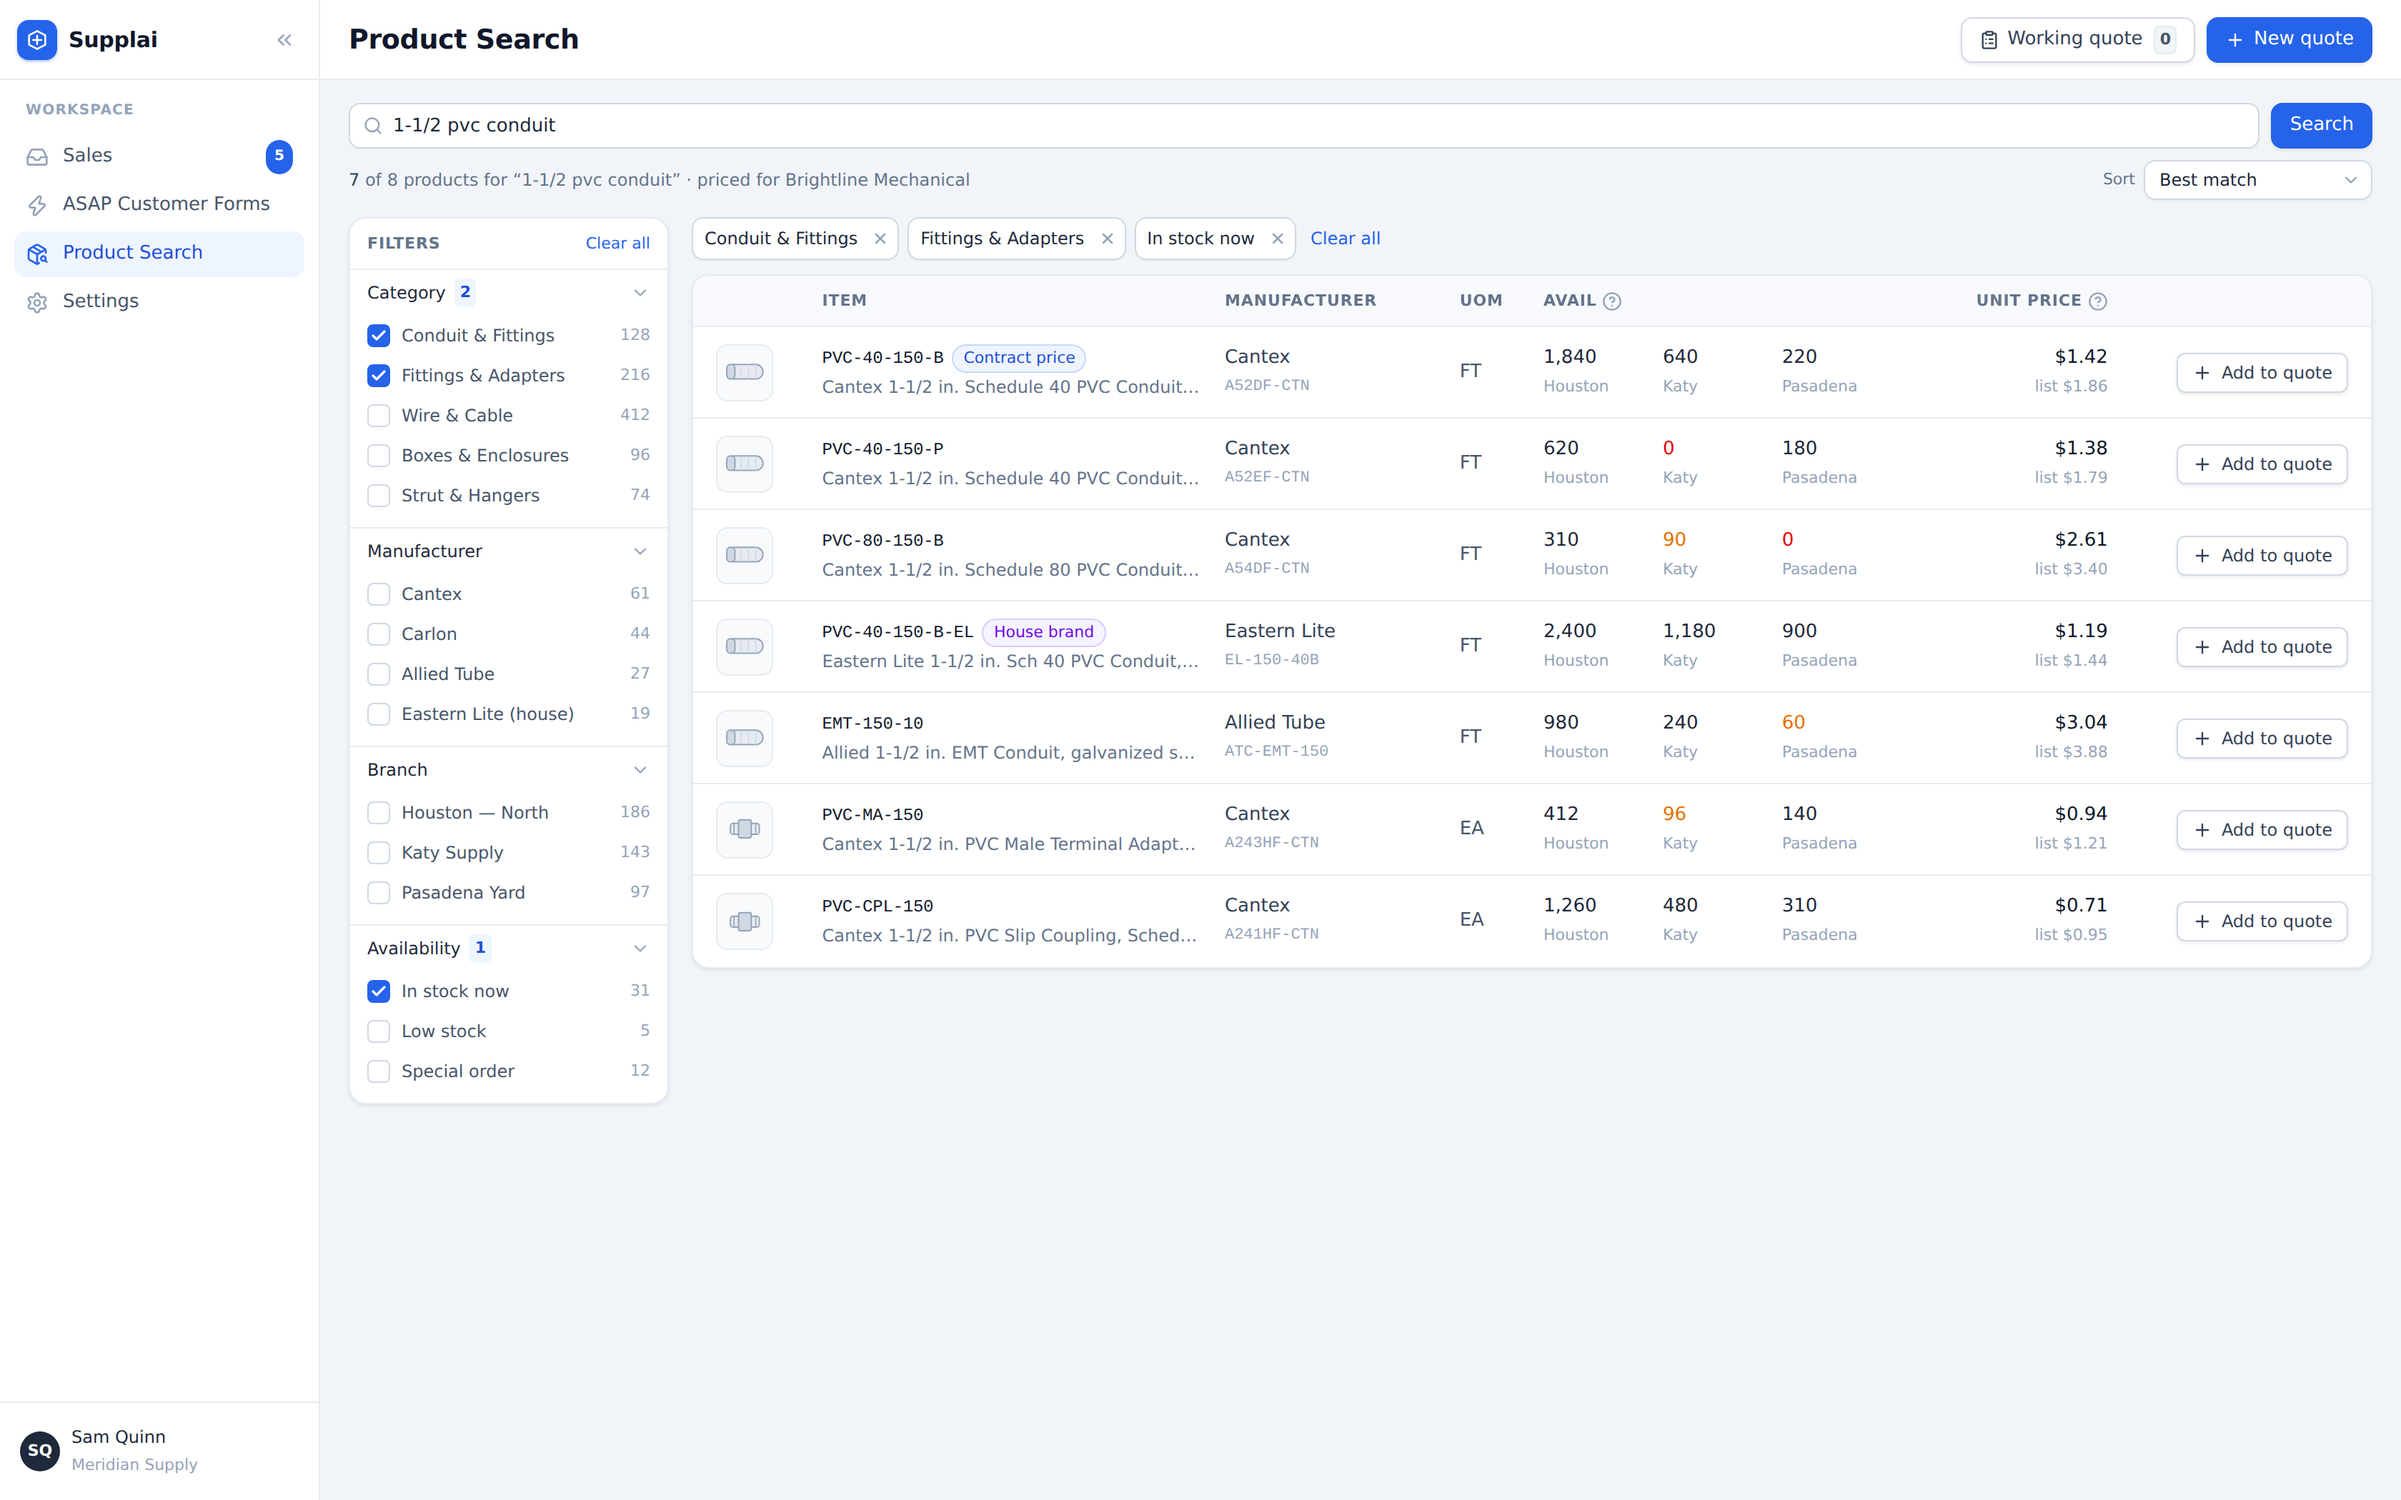
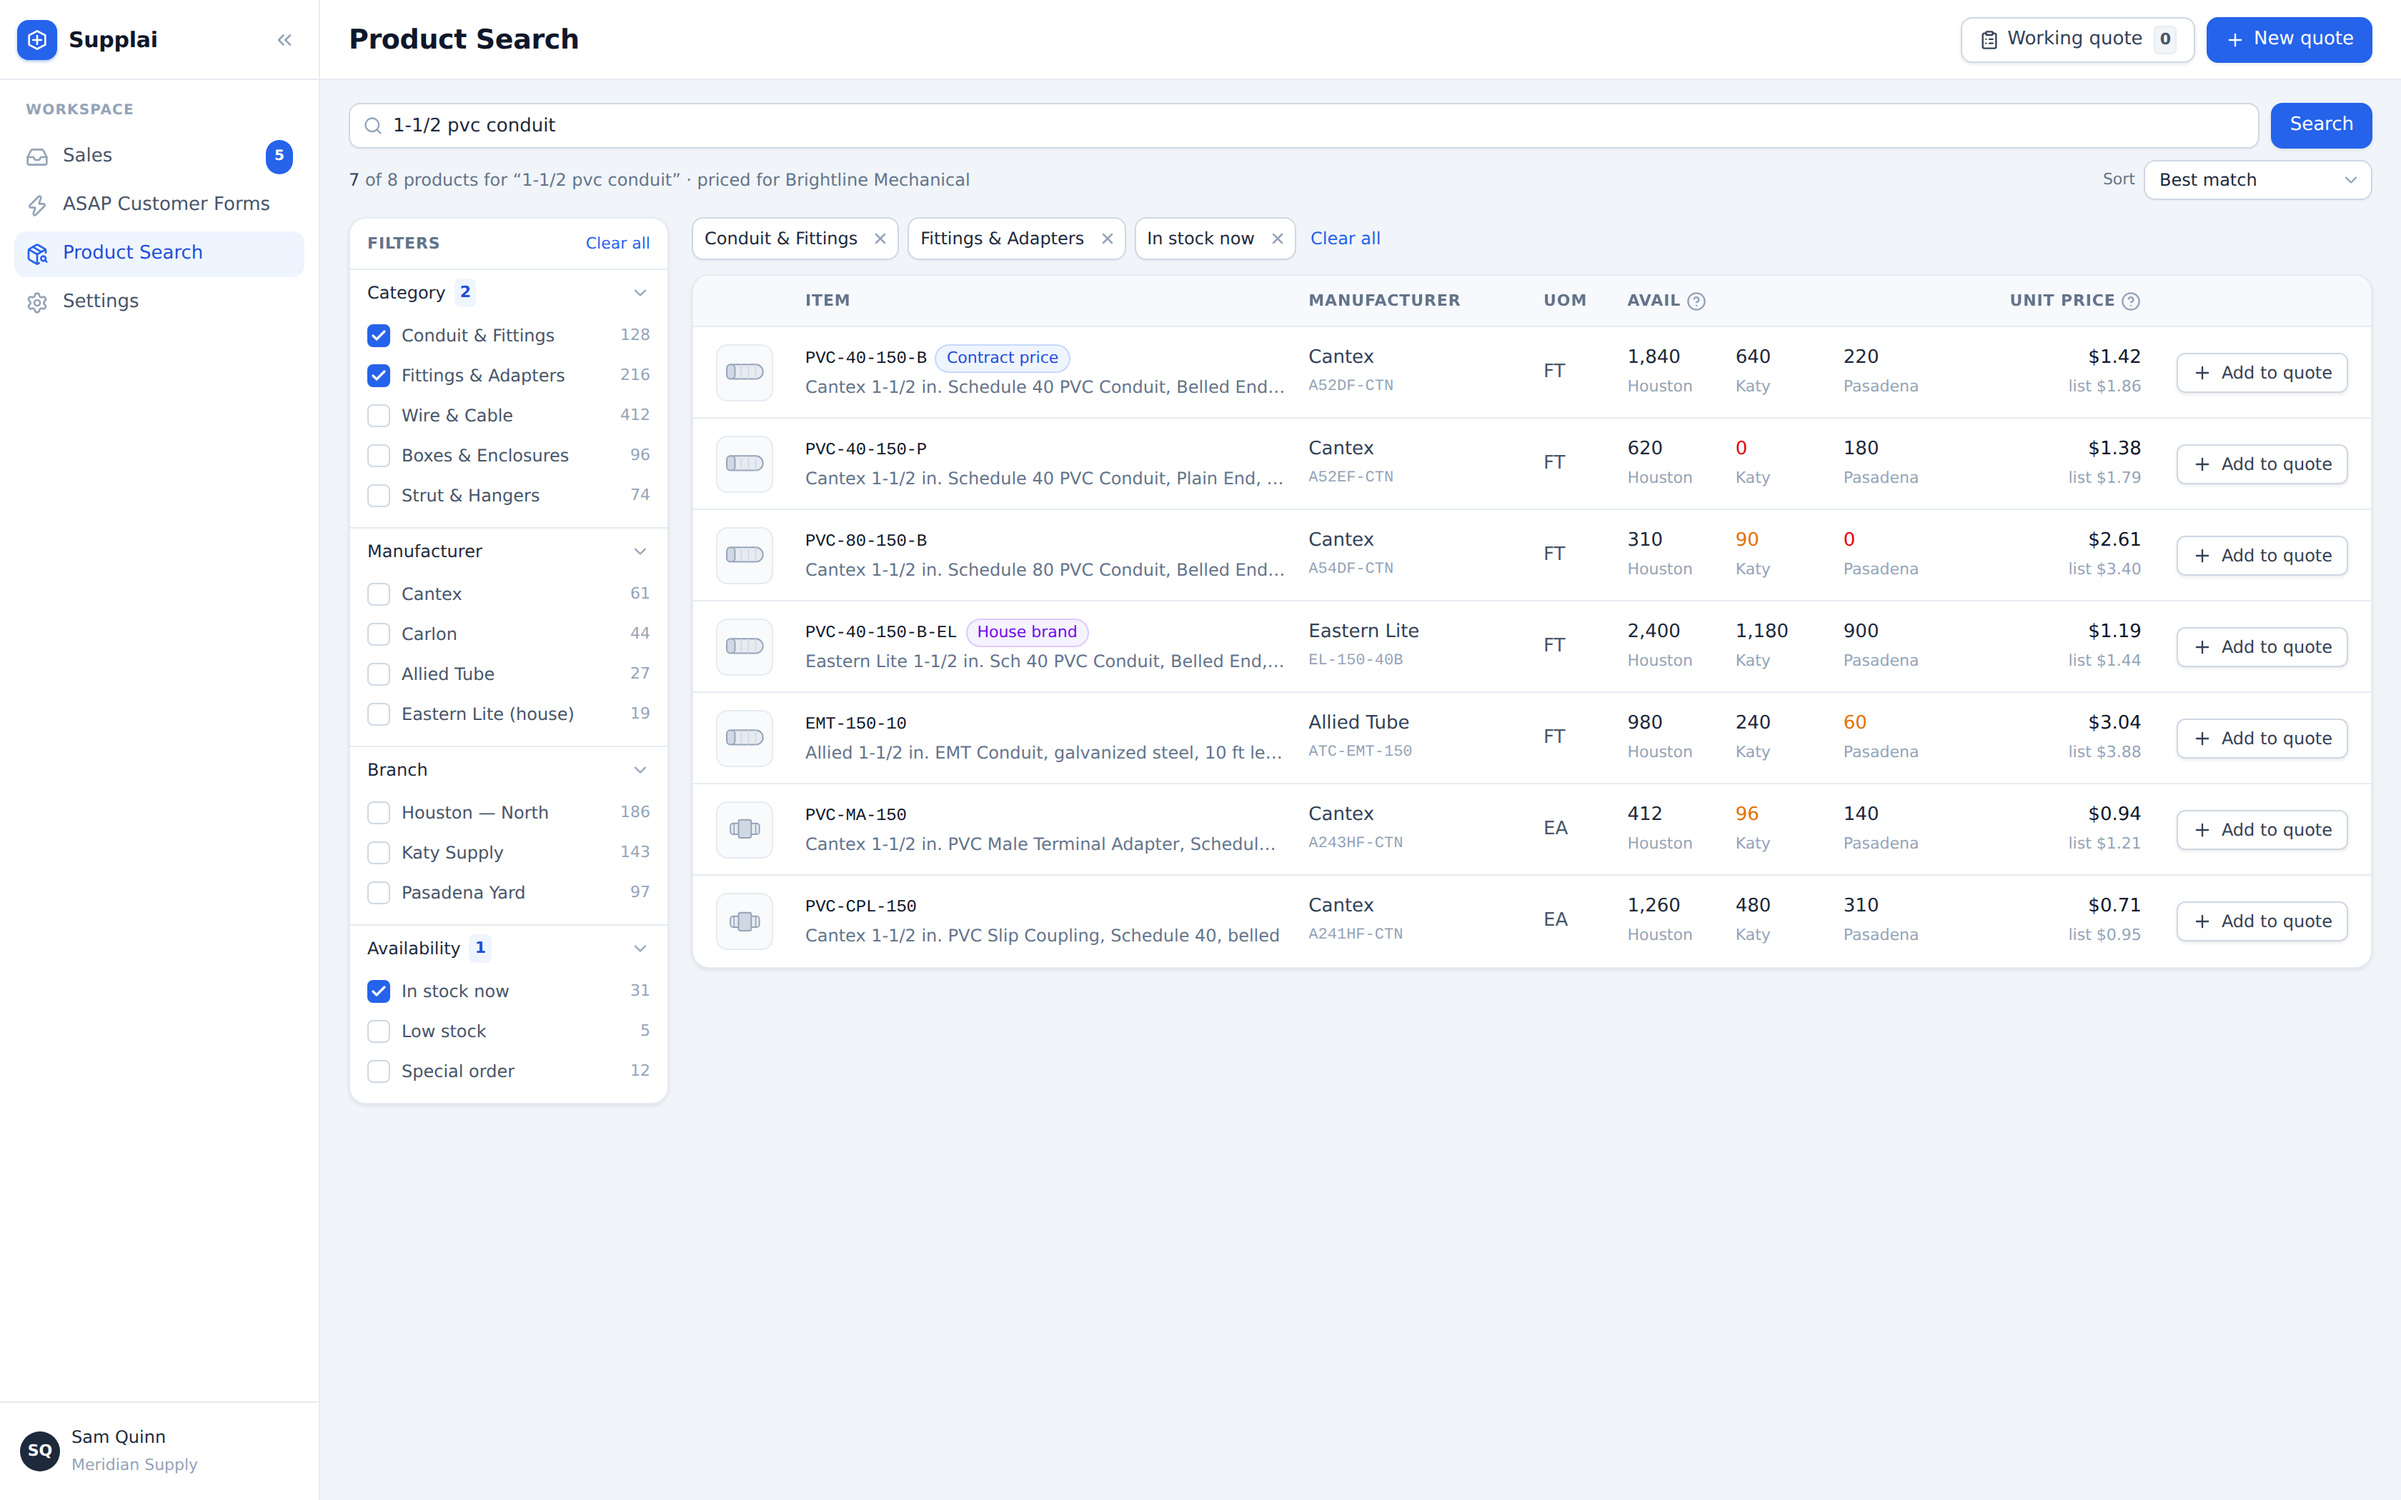
Widen the product search item column
Catalog descriptions differ only at the tail — "Belled End" vs "Plain
End" — so truncating them mid-string made near-identical rows
indistinguishable. Take the width back from Avail and the row actions.

Claude-Session: https://claude.ai/code/session_01ACGtXaGqyuAaEBFuWNCEu1

diff --git a/src/screens/ProductSearch.jsx b/src/screens/ProductSearch.jsx
@@ -365,16 +365,18 @@ export default function ProductSearch({ params, navigate }) {
                       <th scope="col" className="h-9 w-16 border-b border-ink-200 pr-1 pl-4">
                         <span className="sr-only">Thumbnail</span>
                       </th>
-                      <Th className="w-[24%]">Item</Th>
+                      {/* Descriptions differ only at the tail ("Belled End" vs
+                          "Plain End"), so the item column gets the extra width. */}
+                      <Th className="w-[30%]">Item</Th>
                       <Th className="w-[14%]">Manufacturer</Th>
                       <Th className="w-[5%]">UoM</Th>
-                      <Th className="w-[22%]" help={AVAIL_HELP}>
+                      <Th className="w-[20%]" help={AVAIL_HELP}>
                         Avail
                       </Th>
-                      <Th className="w-[13%]" align="right" help={PRICE_HELP}>
+                      <Th className="w-[12%]" align="right" help={PRICE_HELP}>
                         Unit Price
                       </Th>
-                      <th scope="col" className="w-[15%] border-b border-ink-200 pr-4">
+                      <th scope="col" className="w-[13%] border-b border-ink-200 pr-4">
                         <span className="sr-only">Row actions</span>
                       </th>
                     </tr>
